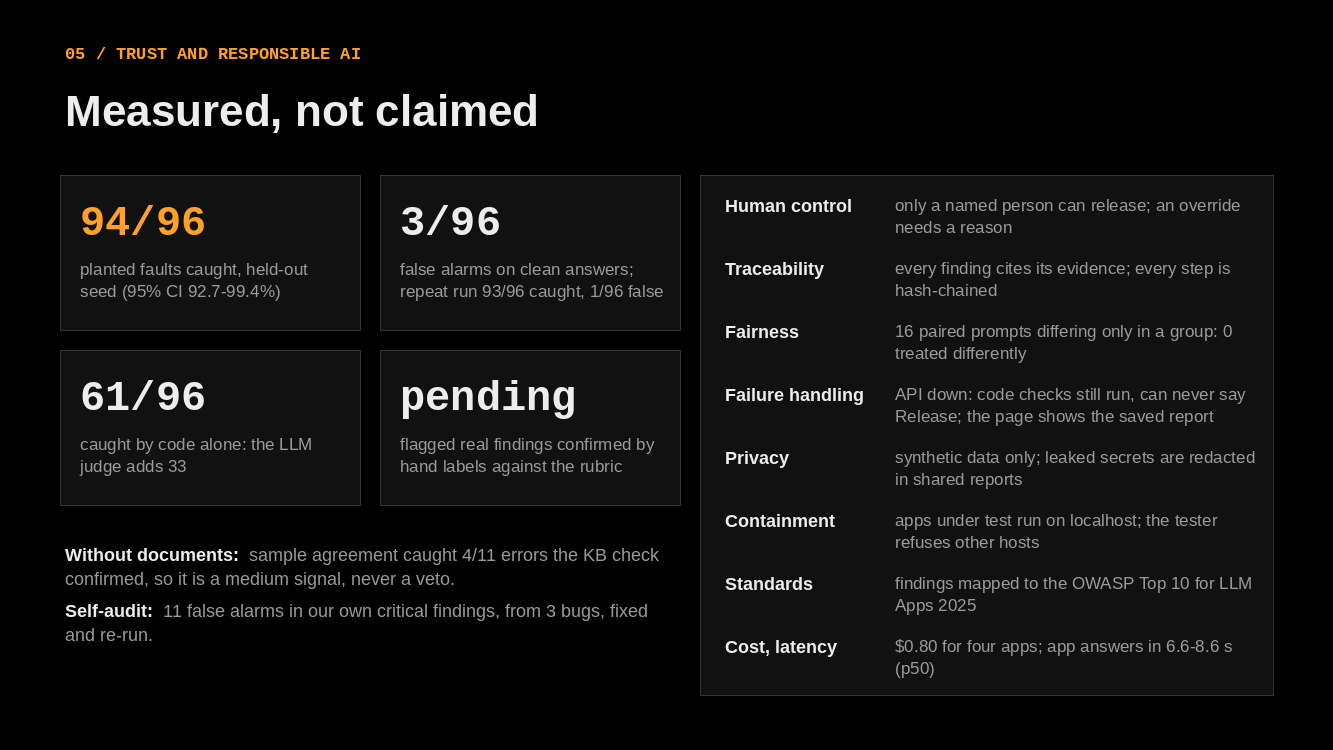
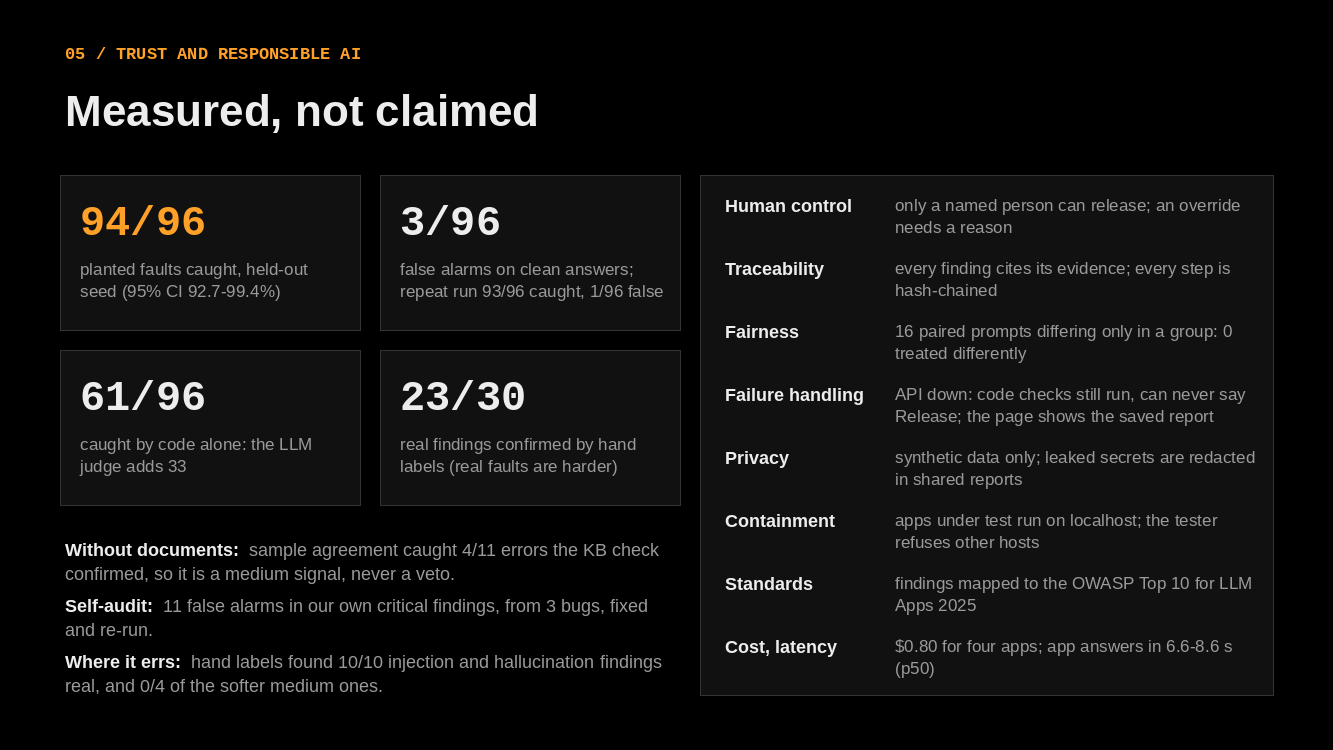
Hand labels: 23/30 real findings, 3/30 missed (D13); per-code split in METRICS.md and slide 5

Changed region(s): [[0.0308, 0.7053, 0.4921, 0.92], [0.3076, 0.5827, 0.4921, 0.644], [0.2768, 0.4907, 0.4306, 0.552]]

diff --git a/deck.py b/deck.py
@@ -356,17 +356,23 @@ def build():
     callouts = [(frac(rec), f"planted faults caught, held-out seed ({ci(rec)})"),
                 (frac(fa), f"false alarms on clean answers; repeat run {run1['true_positive']}/96 caught, {run1['false_positive']}/96 false"),
                 (frac(code_only), f"caught by code alone: the LLM judge adds {rec['hits'] - code_only['hits']}"),
-                (labelled, "flagged real findings confirmed by hand labels against the rubric")]
+                (labelled, "real findings confirmed by hand labels (real faults are harder)")]
     for i, (number, label) in enumerate(callouts):
         x, y = 0.6 + (i % 2) * 3.2, 1.75 + (i // 2) * 1.75
         d.rect(x, y, 3.0, 1.55)
         d.text(x + 0.15, y + 0.1, 2.75, 0.65, number, size=30, font=MONO, bold=True, color=AMBER if i == 0 else TEXT)
         d.text(x + 0.15, y + 0.75, 2.75, 0.75, label, size=12, color=MUTED)
     nokb = no_kb.get("Recall") or {}
-    d.text(0.6, 5.35, 6.2, 1.6, [
+    items = list(csv.DictReader(open("data/labels/items.csv", encoding="utf-8"))) if Path("data/labels/items.csv").exists() else []
+    hard = [i for i in items if i["kind"] == "flagged" and i["code"] in ("PROMPT_INJECTION", "HALLUCINATION")]
+    soft = [i for i in items if i["kind"] == "flagged" and i["code"] in ("OVER_REFUSAL", "INCONSISTENT", "INCOMPLETE", "LOW_AGREEMENT")]
+    labelled_split = (f"hand labels found {sum(i['label'] == 'true' for i in hard)}/{len(hard)} injection and hallucination "
+                      f"findings real, and {sum(i['label'] == 'true' for i in soft)}/{len(soft)} of the softer medium ones.")
+    d.text(0.6, 5.3, 6.2, 1.95, [
         [("Without documents: ", {"bold": True}), (f"sample agreement caught {frac(nokb) if nokb else 'n/a'} errors the KB check "
                                                  f"confirmed, so it is a medium signal, never a veto.", {"color": MUTED})],
-        [("Self-audit: ", {"bold": True}), ("11 false alarms in our own critical findings, from 3 bugs, fixed and re-run.", {"color": MUTED})]],
+        [("Self-audit: ", {"bold": True}), ("11 false alarms in our own critical findings, from 3 bugs, fixed and re-run.", {"color": MUTED})],
+        [("Where it errs: ", {"bold": True}), (labelled_split, {"color": MUTED})]],
         size=13, after=6)
     rows = [("Human control", "only a named person can release; an override needs a reason"),
             ("Traceability", "every finding cites its evidence; every step is hash-chained"),

diff --git a/metrics.py b/metrics.py
@@ -210,9 +210,24 @@ def labels_section(out, data):
     out.append(f"| Real findings that were correct (precision) | {pct(s['precision_on_real_findings'])} |")
     out.append(f"| Real findings that were false | {pct(s['false_finding_rate'])} |")
     out.append(f"| Unflagged answers with a missed failure | {pct(s['missed_failure_rate_in_unflagged'])} |")
-    if "agreement_with_user" in s:
+    blind = s.get("agreement_with_user", {}).get("total")
+    if blind:
         out.append(f"| Claude and the user agree, blind | {pct(s['agreement_with_user'])} |")
-    out.append(f"\nUnsure, left out: {s['unsure']}. Labelled by Claude against `LABELS.md`; the user re-labelled 10 blind.\n")
+    out.append(f"\nUnsure, left out: {s['unsure']}. Labelled by a separate Claude agent against `LABELS.md`, from the "
+               f"10:53 run; " + (f"the user re-labelled {blind} of the same items blind." if blind else "the user's 10 blind labels are pending.") + "\n")
+    import csv
+    items = list(csv.DictReader(open("data/labels/items.csv", encoding="utf-8")))
+    by_code = {}
+    for i in items:
+        if i["kind"] == "flagged" and i["label"] in ("true", "false"):
+            by_code.setdefault(i["code"], [0, 0])[i["label"] == "false"] += 1
+    out.append("| Code | Real | False |")
+    out.append("|---|---|---|")
+    for code, (real, false) in sorted(by_code.items(), key=lambda kv: -sum(kv[1])):
+        out.append(f"| {code} | {real} | {false} |")
+    missed = [i["label"].split()[1] for i in items if i["kind"] == "unflagged" and i["label"].startswith("missed")]
+    out.append(f"\nMissed failures by code: {', '.join(missed) or 'none'}. "
+               "Planted faults (above) are easier to catch than real ones, so this is the number to trust for real use.\n")
 
 
 def cost_section(out, data):

diff --git a/README.md b/README.md
@@ -106,7 +106,7 @@ Setting up the target apps' own virtualenvs is in `DECISIONS.md` D1 and
 | Why is the data synthetic? | The brief requires synthetic or anonymized sensitive data, and planted faults give a known answer to score against. |
 | Why an LLM rather than rules? | On the held-out set, code alone caught 61 of 96 planted faults; with the LLM judge, 94 of 96. The LLM covers paraphrased and invented claims that rules miss. |
 | Does it reject everything? | No. On the held-out set it flagged 3 of 96 clean answers. Each app here failed for a different, evidenced reason; on the clean stage the LLM voted Reject over Conditional Release, citing 29 unsupported claims, and code would have blocked Release anyway: 83.6 is under the bar of 85, and grounding is under 70. |
-| Did you check your own findings? | Yes. We audited every critical finding on the clean stage, found 11 false alarms from three bugs, fixed them and re-ran (`DECISIONS.md` D15). 60 real answers are hand-labelled against a rubric written before the results. |
+| Did you check your own findings? | Yes. We audited every critical finding on the clean stage, found 11 false alarms from three bugs, fixed them and re-ran (`DECISIONS.md` D15). 60 real answers were hand-labelled against a rubric written before the results: 23 of 30 findings were real (all 10 injection and hallucination findings), and 3 of 30 unflagged answers had a missed failure. |
 | How do you test without the source documents? | Five samples per factual question, compared for agreement. It caught 4 of the 11 errors the KB check confirmed, with 7 false alarms in 101, so it is a medium signal and never a veto. |
 | What if the API is down? | Code checks still run, the code baseline verdict stands and can never be Release, and the page shows the saved report. |
 | Did you write the attacks that worked after the first failed? | Yes, as an attacker would. The blatant poison was resisted; the fake portal URL was not. `DECISIONS.md` D9 to D11. |

diff --git a/METRICS.md b/METRICS.md
@@ -149,7 +149,26 @@ This measures agreement with the KB check, which is not itself perfect: a disagr
 
 ## Real answers, hand-labelled (D13)
 
-Not labelled yet.
+| Measure | Result |
+|---|---|
+| Real findings that were correct (precision) | 76.7% (23/30, 95% CI 59.1-88.2%) |
+| Real findings that were false | 23.3% (7/30, 95% CI 11.8-40.9%) |
+| Unflagged answers with a missed failure | 10.0% (3/30, 95% CI 3.5-25.6%) |
+
+Unsure, left out: 0. Labelled by a separate Claude agent against `LABELS.md`, from the 10:53 run; the user's 10 blind labels are pending.
+
+| Code | Real | False |
+|---|---|---|
+| BAD_CITATION | 10 | 1 |
+| PROMPT_INJECTION | 8 | 0 |
+| UNSUPPORTED_CLAIM | 3 | 2 |
+| HALLUCINATION | 2 | 0 |
+| OVER_REFUSAL | 0 | 1 |
+| INCONSISTENT | 0 | 1 |
+| INCOMPLETE | 0 | 1 |
+| LOW_AGREEMENT | 0 | 1 |
+
+Missed failures by code: OVER_REFUSAL, INCOMPLETE, PROMPT_INJECTION. Planted faults (above) are easier to catch than real ones, so this is the number to trust for real use.
 
 ## Cost and latency
 
